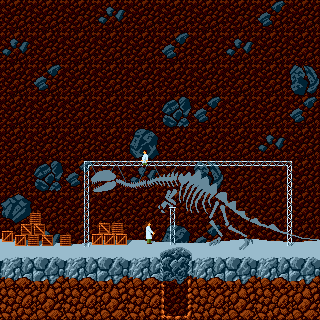
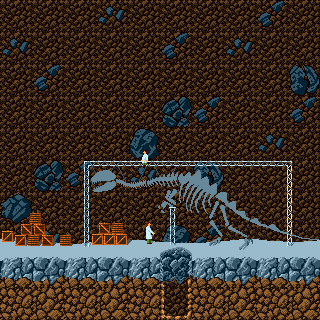
added another palette for bitmap export, proper checkpoint gfx

diff --git a/src/base_tile.c b/src/base_tile.c
@@ -3,9 +3,13 @@
  * file, You can obtain one at http://mozilla.org/MPL/2.0/. */
 
 #include "base_tile.h"
+#include "game.h"
+#include "tile.h"
 
 static UBYTE s_ubBaseCurrent;
+static UBYTE s_isFinishLoaded;
 static tBitMap *s_pBaseTiles[2];
+static tBitMap *s_pCheckpointTiles;
 tTileBufferManager *s_pManager;
 
 static void baseTileLoad(UBYTE ubBaseIdx) {
@@ -22,20 +26,46 @@ void baseTileCreate(tTileBufferManager *pManager) {
 	s_pManager = pManager;
 	s_pBaseTiles[0] = bitmapCreateFromFile("data/base0.bm", 1);
 	s_pBaseTiles[1] = bitmapCreateFromFile("data/base1.bm", 1);
+	s_pCheckpointTiles = bitmapCreateFromFile("data/checkpoint.bm", 1);
 	baseTileLoad(0);
+	s_isFinishLoaded = 0;
 }
 
 void baseTileDestroy(void) {
 	bitmapDestroy(s_pBaseTiles[0]);
 	bitmapDestroy(s_pBaseTiles[1]);
+	bitmapDestroy(s_pCheckpointTiles);
 }
+
+#define TILE_BYTE_COUNT (32 * 4 * 5)
 
 void baseTileProcess(void) {
 	UWORD uwCamY = s_pManager->pCamera->uPos.sUwCoord.uwY;
-	if(uwCamY < 512 && s_ubBaseCurrent != 0) {
-		baseTileLoad(0);
+	if(g_isChallenge) {
+		tBitMap *pTiles = s_pManager->pTileSet;
+		if(uwCamY >= TILE_ROW_CHALLENGE_CHECKPOINT_3 * 32) {
+			if(!s_isFinishLoaded) {
+				memcpy(
+					&pTiles->Planes[0][TILE_CHECKPOINT_1 * TILE_BYTE_COUNT],
+					&s_pCheckpointTiles->Planes[0][10 * TILE_BYTE_COUNT], 10 * TILE_BYTE_COUNT
+				);
+				s_isFinishLoaded = 1;
+			}
+		}
+		else if(s_isFinishLoaded) {
+			memcpy(
+				&pTiles->Planes[0][TILE_CHECKPOINT_1 * TILE_BYTE_COUNT],
+				s_pCheckpointTiles->Planes[0], 10 * TILE_BYTE_COUNT
+			);
+			s_isFinishLoaded = 0;
+		}
 	}
-	else if(uwCamY > 1024 && s_ubBaseCurrent != 1) {
-		baseTileLoad(1);
+	else {
+		if(uwCamY < 20*32 && s_ubBaseCurrent != 0) {
+			baseTileLoad(0);
+		}
+		else if(uwCamY > 90*32 && s_ubBaseCurrent != 1) {
+			baseTileLoad(1);
+		}
 	}
 }

diff --git a/src/tile.c b/src/tile.c
@@ -185,7 +185,7 @@ void tileInit(UBYTE isCoalOnly, UBYTE isChallenge) {
 				);
 			}
 			else {
-				g_pMainBuffer->pTileData[x][y] = ubRandMinMax(TILE_ROCK_1, TILE_ROCK_2);
+				g_pMainBuffer->pTileData[x][y] = TILE_ROCK_1 + !(x & 1);
 			}
 			g_pMainBuffer->pTileData[2][y] = 55;
 		}
@@ -201,7 +201,7 @@ void tileInit(UBYTE isCoalOnly, UBYTE isChallenge) {
 	// Draw second base
 	for(UWORD y = 0; y <= TILE_ROW_BASE_DIRT+1; ++y) {
 		for(UWORD x = 1; x < 1 + 10; ++x) {
-			g_pMainBuffer->pTileData[x][50 + y] = s_pBasePatterns[1][y * 10 + x - 1];
+			g_pMainBuffer->pTileData[x][100 + y] = s_pBasePatterns[1][y * 10 + x - 1];
 		}
 	}
 
@@ -211,11 +211,11 @@ void tileInit(UBYTE isCoalOnly, UBYTE isChallenge) {
 	}
 
 	if(isChallenge) {
-		for(UWORD x = 0; x < uwEndX; ++x) {
-			g_pMainBuffer->pTileData[x][TILE_ROW_CHALLENGE_CHECKPOINT_1] = TILE_CHECKPOINT;
-			g_pMainBuffer->pTileData[x][TILE_ROW_CHALLENGE_CHECKPOINT_2] = TILE_CHECKPOINT;
-			g_pMainBuffer->pTileData[x][TILE_ROW_CHALLENGE_CHECKPOINT_3] = TILE_CHECKPOINT;
-			g_pMainBuffer->pTileData[x][TILE_ROW_CHALLENGE_FINISH] = TILE_FINISH;
+		for(UWORD x = 1; x < uwEndX; ++x) {
+			g_pMainBuffer->pTileData[x][TILE_ROW_CHALLENGE_CHECKPOINT_1] = TILE_CHECKPOINT_1 + x - 1;
+			g_pMainBuffer->pTileData[x][TILE_ROW_CHALLENGE_CHECKPOINT_2] = TILE_CHECKPOINT_1 + x - 1;
+			g_pMainBuffer->pTileData[x][TILE_ROW_CHALLENGE_CHECKPOINT_3] = TILE_CHECKPOINT_1 + x - 1;
+			g_pMainBuffer->pTileData[x][TILE_ROW_CHALLENGE_FINISH] = TILE_CHECKPOINT_1 + x - 1;
 			g_pMainBuffer->pTileData[x][TILE_ROW_CHALLENGE_FINISH+1] = TILE_STONE_1 + (x & 1);
 		}
 	}

diff --git a/src/vehicle.c b/src/vehicle.c
@@ -307,21 +307,23 @@ static void vehicleExcavateTile(tVehicle *pVehicle, UWORD uwX, UWORD uwY) {
 	}
 
 	if(g_isChallenge) {
-		if(ubTile == TILE_CHECKPOINT) {
-			textBobSetText(
-				&pVehicle->sTextBob, "Checkpoint! %+hd", vehicleRestock(pVehicle)
-			);
-			textBobSetColor(&pVehicle->sTextBob, COLOR_GREEN);
-			textBobSetPos(
-				&pVehicle->sTextBob,
-				pVehicle->sBobBody.sPos.sUwCoord.uwX + VEHICLE_WIDTH/2,
-				pVehicle->sBobBody.sPos.sUwCoord.uwY,
-				pVehicle->sBobBody.sPos.sUwCoord.uwY - 32, 1
-			);
-		}
-		else if(ubTile == TILE_FINISH) {
-			vehicleRestock(pVehicle);
-			gameChallengeEnd();
+		if(TILE_CHECKPOINT_1 <= ubTile && ubTile <= TILE_CHECKPOINT_1 + 9) {
+			if(uwY == TILE_ROW_CHALLENGE_FINISH) {
+				vehicleRestock(pVehicle);
+				gameChallengeEnd();
+			}
+			else {
+				textBobSetText(
+					&pVehicle->sTextBob, "Checkpoint! %+hd", vehicleRestock(pVehicle)
+				);
+				textBobSetColor(&pVehicle->sTextBob, COLOR_GREEN);
+				textBobSetPos(
+					&pVehicle->sTextBob,
+					pVehicle->sBobBody.sPos.sUwCoord.uwX + VEHICLE_WIDTH/2,
+					pVehicle->sBobBody.sPos.sUwCoord.uwY,
+					pVehicle->sBobBody.sPos.sUwCoord.uwY - 32, 1
+				);
+			}
 		}
 	}
 

diff --git a/src/base_tile.h b/src/base_tile.h
@@ -2,6 +2,9 @@
  * License, v. 2.0. If a copy of the MPL was not distributed with this
  * file, You can obtain one at http://mozilla.org/MPL/2.0/. */
 
+#ifndef _AMINER_BASE_TILE_H_
+#define _AMINER_BASE_TILE_H_
+
 #include <ace/managers/viewport/tilebuffer.h>
 
 void baseTileCreate(tTileBufferManager *pManager);
@@ -9,3 +12,5 @@ void baseTileCreate(tTileBufferManager *pManager);
 void baseTileDestroy(void);
 
 void baseTileProcess(void);
+
+#endif // _AMINER_BASE_TILE_H_

diff --git a/src/tile.h b/src/tile.h
@@ -31,9 +31,8 @@ typedef enum _tTile {
 	TILE_RUBY_1, TILE_RUBY_2, TILE_RUBY_3,
 	TILE_MOONSTONE_1, TILE_MOONSTONE_2, TILE_MOONSTONE_3,
 	TILE_COAL_1, TILE_COAL_2, TILE_COAL_3,
-	TILE_FINISH,
-	TILE_CHECKPOINT,
-	TILE_BONE_HEAD, TILE_BONE_1,
+	TILE_CHECKPOINT_1,
+	TILE_BONE_HEAD = TILE_CHECKPOINT_1 + 10, TILE_BONE_1,
 	TILE_MAGMA_1, TILE_MAGMA_2,
 	TILE_COUNT
 } tTile;

diff --git a/src/game.c b/src/game.c
@@ -236,8 +236,8 @@ void gameGsLoop(void) {
 		if(g_pMainBuffer->pCamera->uPos.sUwCoord.uwX < uwCamX) {
 			g_pMainBuffer->pCamera->uPos.sUwCoord.uwX = uwCamX;
 		}
-		baseTileProcess();
 	}
+	baseTileProcess();
 
 	groundLayerProcess(g_pMainBuffer->pCamera->uPos.sUwCoord.uwY);
 
